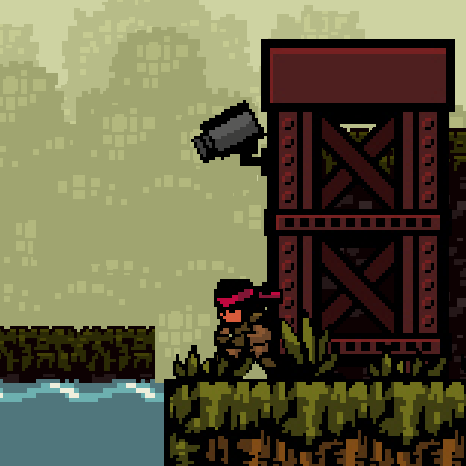
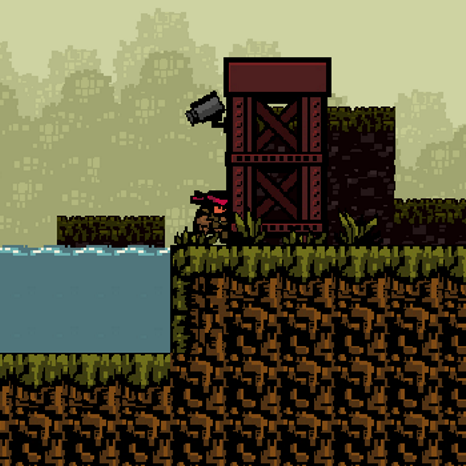
dfsg
sdfg

diff --git a/index.html b/index.html
@@ -101,7 +101,7 @@
 
 		<div class="work">
 			<a href="games/invasion.html">
-				<img src="img/cardbackcrop.png" class="media" alt=""/>
+				<img src="img/invasioncrop.png" class="media" alt=""/>
 				<div class="caption">
 					<div class="work_title">
 						<h2>Invasion</h2><br>
